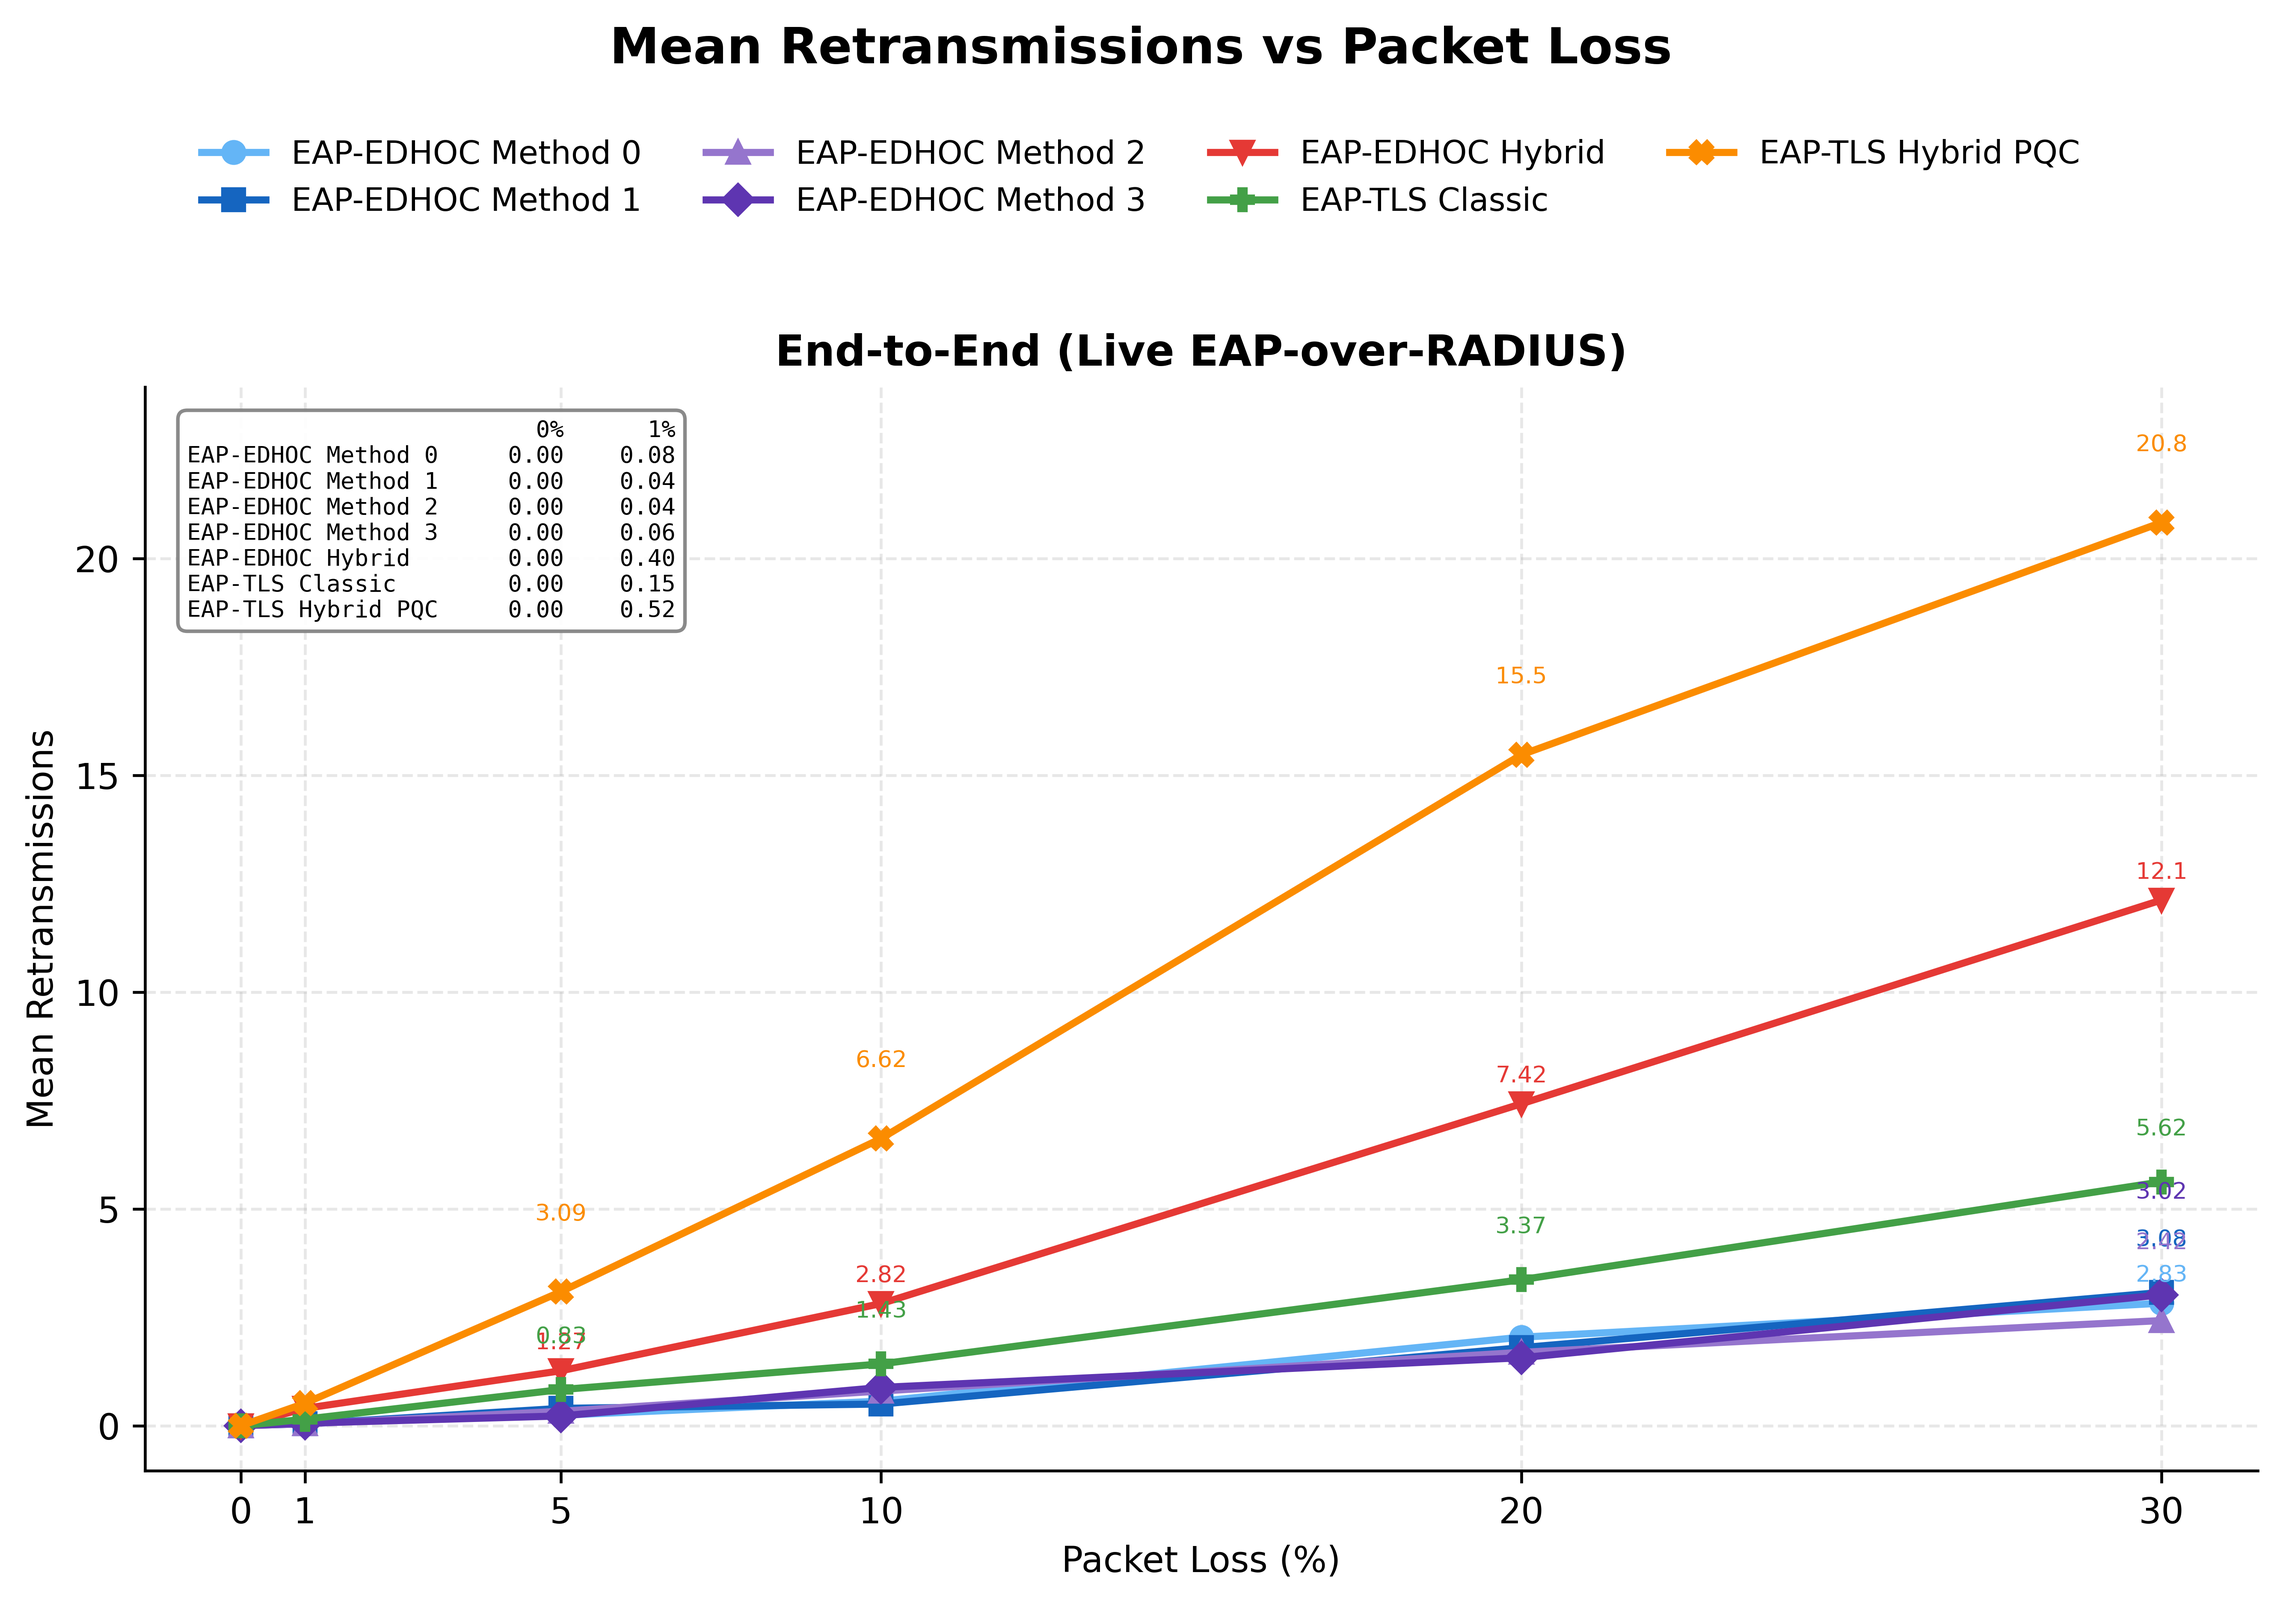
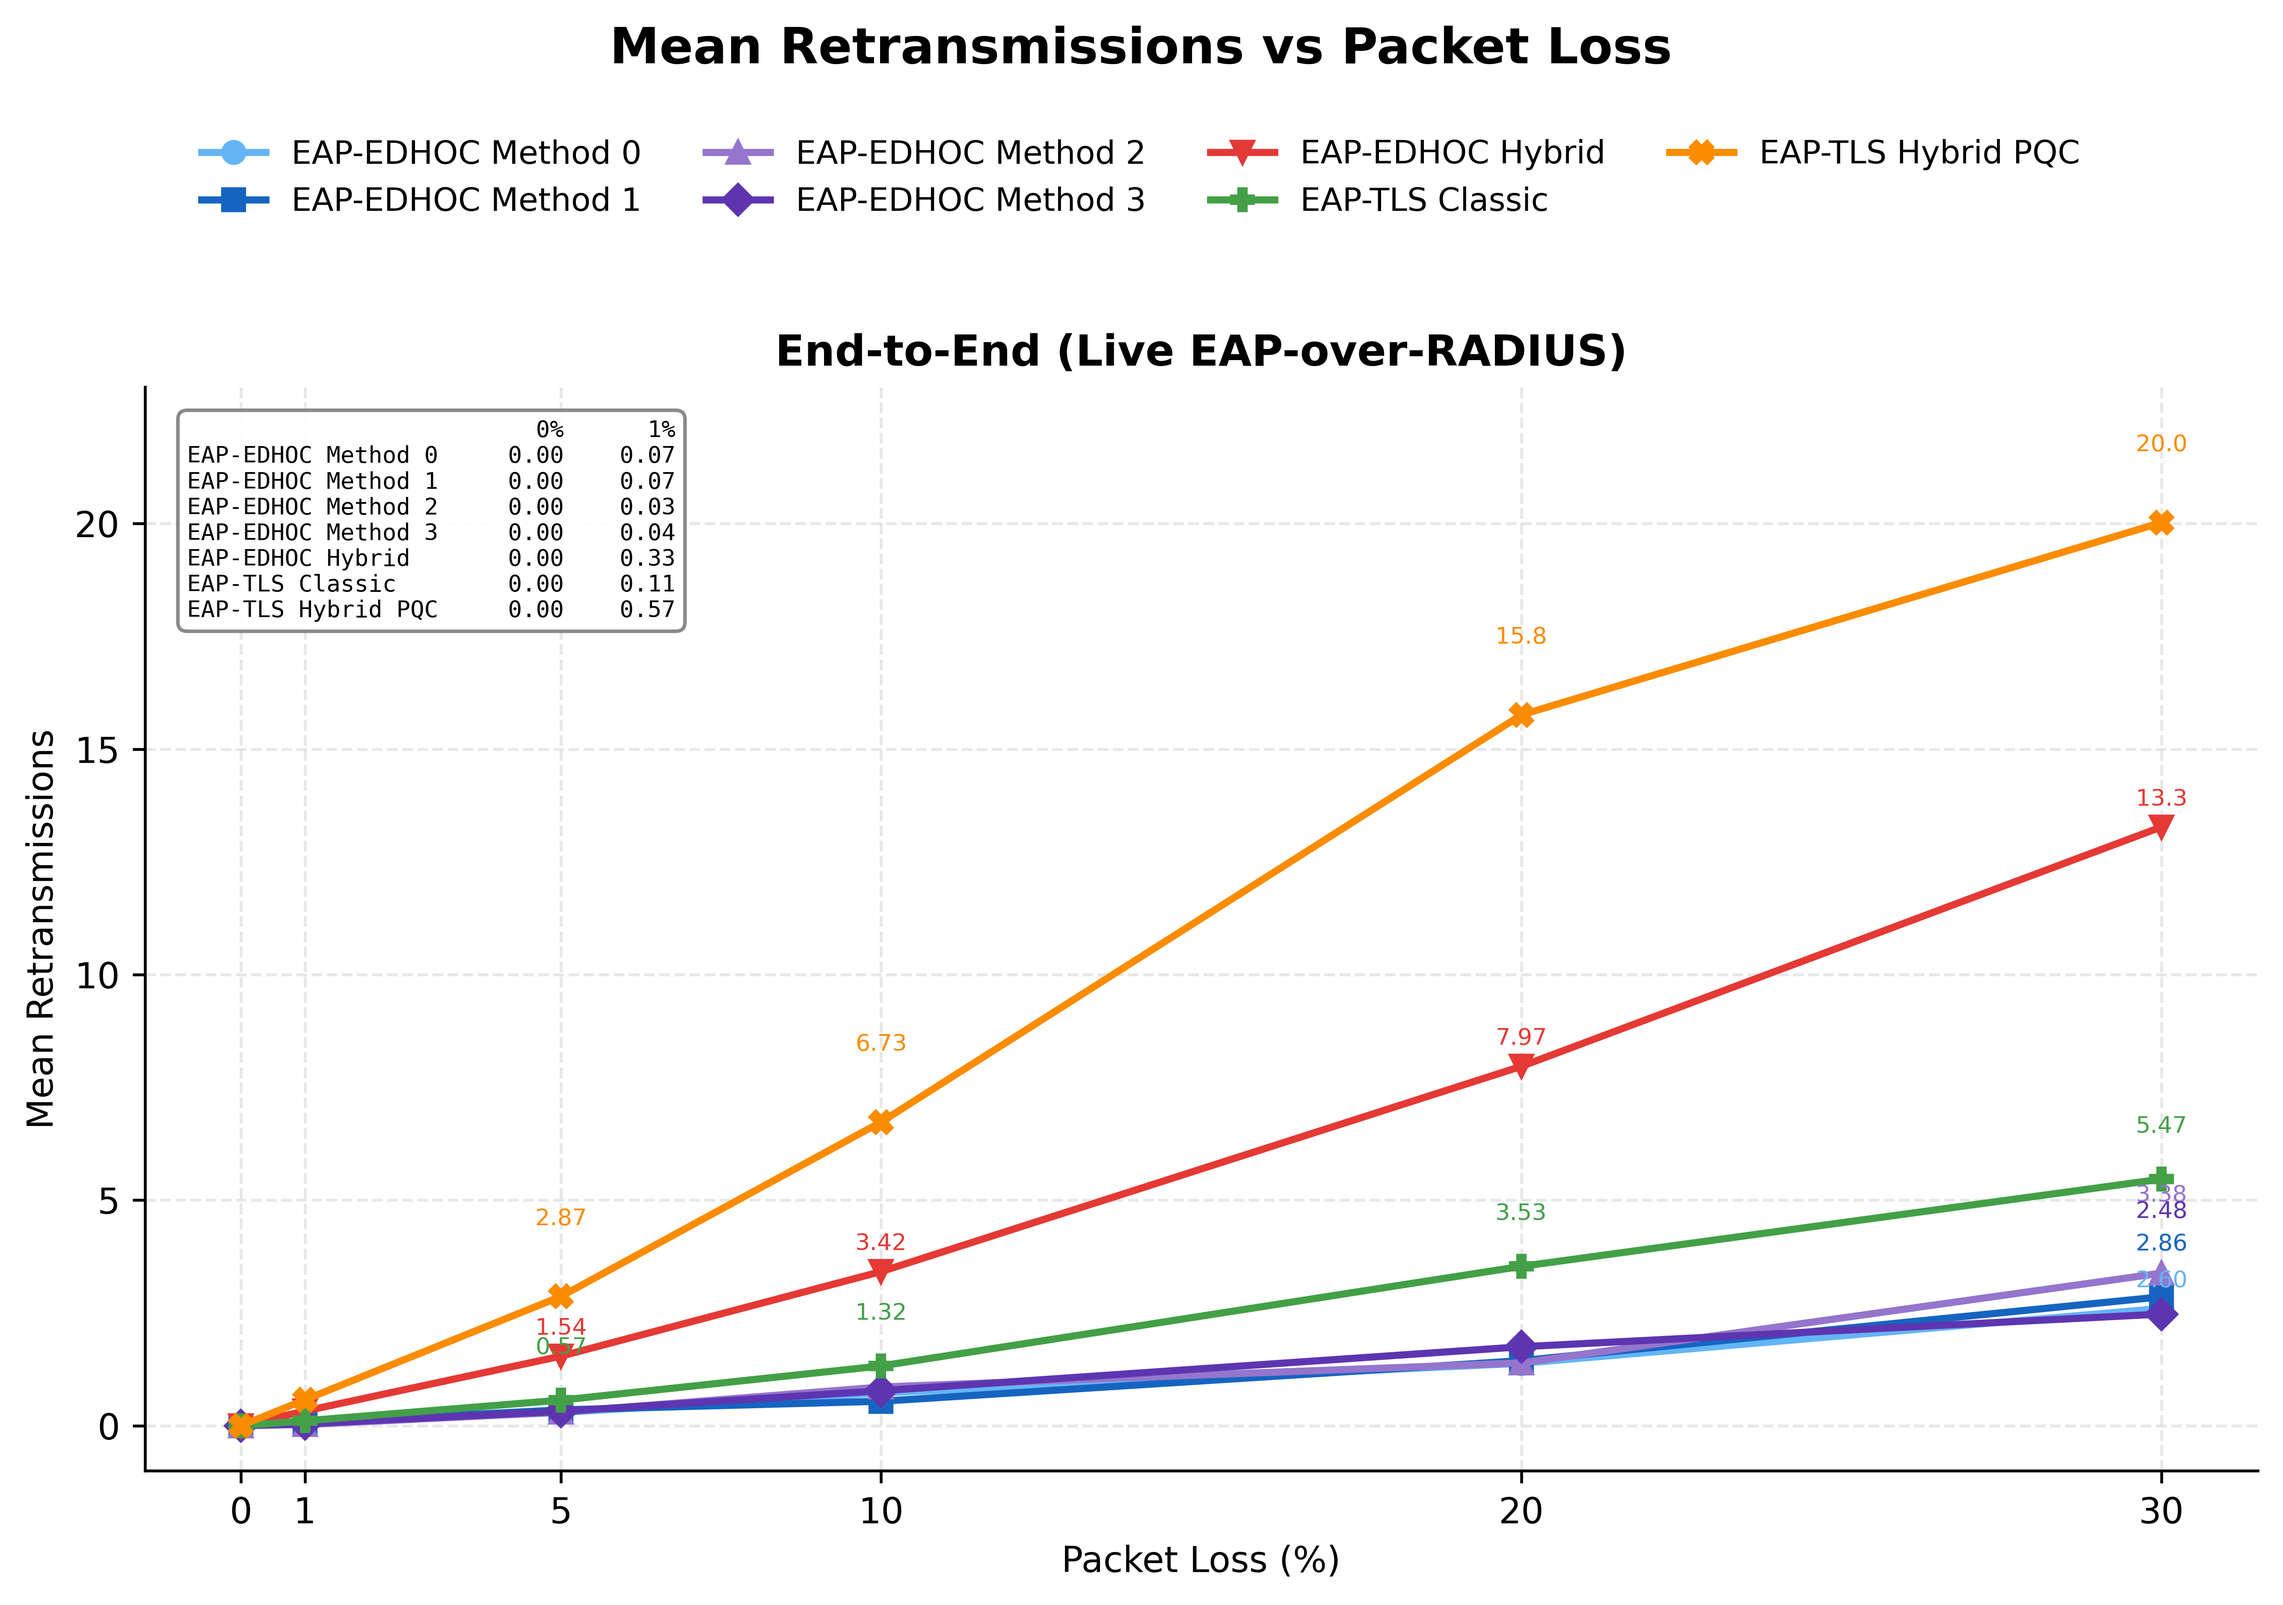
figure/notebook: updated protocol diagram and plots
Symmetry_Journal.drawio gets a page "v3: rotation keys in EAD_1/EAD_2,
pseudonym, no grace key" (copy of the clean v2 page): KeyGen before
message_1 (UE) and message_2 (DN-AAA), Npk_A in EAD_1, (Npk_B, P_next) in
EAD_2 under MAC_2/sigma_R, the pseudonym index, the UE's write-ahead of
NEXT before message_3, no EAD_3, message_4 = AEAD(K_4, empty), promotion
of NEXT, erasure of the old sk_B off the critical path. No drawio CLI on
the VM: img_SecondaryAuth2_v2.png still has to be exported by hand.

fill_notebook.py writes the notebook's data cells from the CSVs and
render_figures.py re-renders the paper figures (both replace the scratch
scripts used so far). Seven figures change; manuscript.tex is untouched.

diff --git a/benchmark/fill_notebook.py b/benchmark/fill_notebook.py
@@ -1,0 +1,114 @@
+#!/usr/bin/env python3
+"""
+fill_notebook.py — write the live results of benchmark-results/ into the
+data cells of symmetry-rev/notebook/EAP_Edhoc_Secondary_Authentication_v2.ipynb
+(same definitions as e2e_analyze.py), so no number is typed by hand:
+
+  e2e_initiator / e2e_responder   loss-free means (responder = total - initiator)
+  e2e_mean / e2e_p95 / e2e_retx / e2e_success   lossy series (mean/p95 over
+                                  PASS runs, retransmissions and success over
+                                  all trials)
+  MSG1..MSG4                      observed message sizes (chart 2 order)
+  total_eap_frags / total_ip_frags  observed EAP fragments, IP fragments at MTU 1500
+  compute_initiator / compute_responder  handshake-compute.csv
+  EDHOC_HANDSHAKE_MEAN_MS         loss-free mean of method 4
+
+usage: fill_notebook.py [notebook]
+"""
+import csv
+import json
+import os
+import re
+import statistics
+import sys
+
+HERE = os.path.dirname(os.path.abspath(__file__))
+ROOT = os.path.abspath(os.path.join(HERE, ".."))
+R = os.path.join(ROOT, "benchmark-results")
+NB = sys.argv[1] if len(sys.argv) > 1 else os.path.join(
+    ROOT, "symmetry-rev/notebook/EAP_Edhoc_Secondary_Authentication_v2.ipynb")
+LOSS = [0.0, 1.0, 5.0, 10.0, 20.0, 30.0]
+MTU = 1500
+# chart 2 order: methods_c2 in the notebook
+C2_ORDER = [6, 4, 5, 0, 2, 1, 3]
+
+
+def rows(name):
+    with open(os.path.join(R, name), newline="") as f:
+        return list(csv.DictReader(f))
+
+
+def pct(values, p):
+    s = sorted(values)
+    k = (len(s) - 1) * (p / 100.0)
+    f = int(k)
+    c = min(f + 1, len(s) - 1)
+    return s[f] + (s[c] - s[f]) * (k - f)
+
+
+hs = [r for r in rows("e2e-handshake.csv") if r["status"] == "PASS"]
+by_m = {m: [r for r in hs if int(r["method"]) == m] for m in range(7)}
+init = [statistics.mean(float(r["initiator_ms"]) for r in by_m[m]) for m in range(7)]
+tot = [statistics.mean(float(r["duration_ms"]) for r in by_m[m]) for m in range(7)]
+resp = [round(t, 3) - round(i, 3) for t, i in zip(tot, init)]
+
+lossy = rows("e2e-lossy.csv")
+e2e = {k: {} for k in ("mean", "p95", "retx", "success")}
+for m in range(7):
+    for k in e2e:
+        e2e[k][m] = []
+    for l in LOSS:
+        rr = [r for r in lossy if int(r["method"]) == m and float(r["loss_pct"]) == l]
+        d = [float(r["duration_ms"]) for r in rr if r["status"] == "PASS"]
+        e2e["mean"][m].append(statistics.mean(d) if d else 0.0)
+        e2e["p95"][m].append(pct(d, 95) if d else 0.0)
+        e2e["retx"][m].append(statistics.mean(int(r["retransmits"]) for r in rr))
+        e2e["success"][m].append(100.0 * len(d) / len(rr))
+
+first = {m: by_m[m][0] for m in range(7)}
+msg = {i: [int(first[m][f"msg{i}_bytes"]) for m in C2_ORDER] for i in range(1, 5)}
+eap_frags = [sum(int(first[m][f"msg{i}_frags"]) for i in range(1, 5)) for m in range(7)]
+ip_frags = [sum((int(first[m][f"msg{i}_bytes"]) + MTU - 1) // MTU for i in range(1, 5)) for m in range(7)]
+
+comp = {int(r["method"]): r for r in rows("handshake-compute.csv")}
+c_ini = [float(comp[m]["initiator_compute_us"]) / 1000 for m in range(7)]
+c_res = [float(comp[m]["responder_compute_us"]) / 1000 for m in range(7)]
+
+
+def lst(v, f="{:.3f}"):
+    return "[" + ", ".join(f.format(x) for x in v) + "]"
+
+
+def dct(d, f):
+    return "{\n" + "".join(f"    {m}: [" + ", ".join(f.format(x) for x in d[m]) + "],\n" for m in range(7)) + "}"
+
+
+nb = json.load(open(NB))
+cells = [c for c in nb["cells"] if c["cell_type"] == "code"]
+subs = [
+    (0, r"compute_initiator = \[[^\]]*\]", "compute_initiator = " + lst(c_ini, "{:.6f}")),
+    (0, r"compute_responder = \[[^\]]*\]", "compute_responder = " + lst(c_res, "{:.6f}")),
+    (0, r"e2e_initiator = \[[^\]]*\]", "e2e_initiator = " + lst(init)),
+    (0, r"e2e_responder = \[[^\]]*\]", "e2e_responder = " + lst(resp)),
+    (0, r"MSG1 = \[[^\]]*\]", "MSG1 = " + lst(msg[1], "{}")),
+    (0, r"MSG2 = \[[^\]]*\]", "MSG2 = " + lst(msg[2], "{}")),
+    (0, r"MSG3 = \[[^\]]*\]", "MSG3 = " + lst(msg[3], "{}")),
+    (0, r"MSG4 = \[[^\]]*\]", "MSG4 = " + lst(msg[4], "{}")),
+    (0, r"total_eap_frags = \[[^\]]*\]", "total_eap_frags = " + lst(eap_frags, "{}")),
+    (0, r"total_ip_frags = \[[^\]]*\]", "total_ip_frags = " + lst(ip_frags, "{}")),
+    (0, r"e2e_mean = \{[^}]*\}", "e2e_mean = " + dct(e2e["mean"], "{:.3f}")),
+    (0, r"e2e_p95 = \{[^}]*\}", "e2e_p95 = " + dct(e2e["p95"], "{:.3f}")),
+    (0, r"e2e_retx = \{[^}]*\}", "e2e_retx = " + dct(e2e["retx"], "{:.3f}")),
+    (0, r"e2e_success = \{[^}]*\}", "e2e_success = " + dct(e2e["success"], "{:.1f}")),
+    (2, r"EDHOC_HANDSHAKE_MEAN_MS = [0-9.]+", f"EDHOC_HANDSHAKE_MEAN_MS = {tot[4]:.3f}"),
+]
+for ci, pat, rep in subs:
+    src = "".join(cells[ci]["source"])
+    new, n = re.subn(pat, lambda _m: rep, src, count=1)
+    if n != 1:
+        sys.exit(f"pattern not found in code cell {ci}: {pat}")
+    lines = new.split("\n")
+    cells[ci]["source"] = [l + "\n" for l in lines[:-1]] + ([lines[-1]] if lines[-1] else [])
+with open(NB, "w") as f:
+    f.write(json.dumps(nb, indent=1, ensure_ascii=False))   # same layout as the file
+print(f"filled {NB}: m4 mean {tot[4]:.3f} ms, EAP frags {eap_frags}, IP frags {ip_frags}")

diff --git a/benchmark/render_figures.py b/benchmark/render_figures.py
@@ -1,0 +1,48 @@
+#!/usr/bin/env python3
+"""
+render_figures.py — run the code cells of the v2 notebook in a scratch
+directory (headless matplotlib) and copy the figures the paper uses to
+symmetry-rev/paper/img_<name>.png.
+
+usage: render_figures.py [workdir]
+"""
+import json
+import os
+import shutil
+import subprocess
+import sys
+import tempfile
+
+HERE = os.path.dirname(os.path.abspath(__file__))
+ROOT = os.path.abspath(os.path.join(HERE, ".."))
+NB = os.path.join(ROOT, "symmetry-rev/notebook/EAP_Edhoc_Secondary_Authentication_v2.ipynb")
+PAPER = os.path.join(ROOT, "symmetry-rev/paper")
+FIGS = {   # produced file (relative to the workdir) -> paper image
+    "handshake_computation_grouped.png": "img_handshake_computation_grouped.png",
+    "communication_breakdown_methods.png": "img_communication_breakdown_methods.png",
+    "combined_mean_latency_loss.png": "img_combined_mean_latency_loss.png",
+    "combined_mean_retransmissions.png": "img_combined_mean_retransmissions.png",
+    "combined_95th_percentile_latency_loss.png": "img_combined_95th_percentile_latency_loss.png",
+    "combined_success_rate_heatmap.png": "img_combined_success_rate_heatmap.png",
+    "output/A1_primitive_mean.png": "img_A1_primitive_mean.png",
+    "output/A2_compute_breakdown.png": "img_A2_compute_breakdown.png",
+    "output/C_throughput.png": "img_C_throughput.png",
+    "output/D_baseline_comparison.png": "img_D_baseline_comparison.png",
+}
+
+work = sys.argv[1] if len(sys.argv) > 1 else tempfile.mkdtemp(prefix="nbrun-")
+os.makedirs(work, exist_ok=True)
+cells = [c for c in json.load(open(NB))["cells"] if c["cell_type"] == "code"]
+env = dict(os.environ, MPLBACKEND="Agg")
+for i, c in enumerate(cells):
+    path = os.path.join(work, f"cell{i}.py")
+    with open(path, "w") as f:
+        f.write("".join(c["source"]))
+    with open(path + ".log", "w") as log:
+        rc = subprocess.run([sys.executable, path], cwd=work, env=env,
+                            stdout=log, stderr=subprocess.STDOUT).returncode
+    if rc != 0:
+        sys.exit(f"cell {i} failed, see {path}.log")
+for src, dst in FIGS.items():
+    shutil.copy(os.path.join(work, src), os.path.join(PAPER, dst))
+print(f"rendered {len(cells)} cells in {work}; copied {len(FIGS)} figures to {PAPER}")
